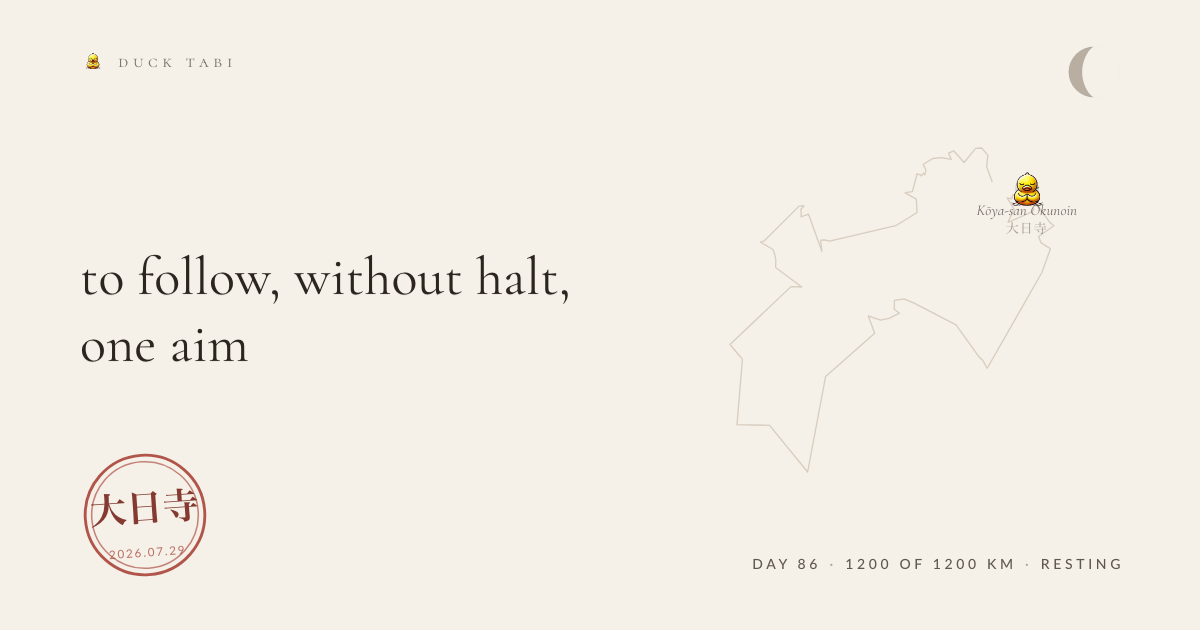
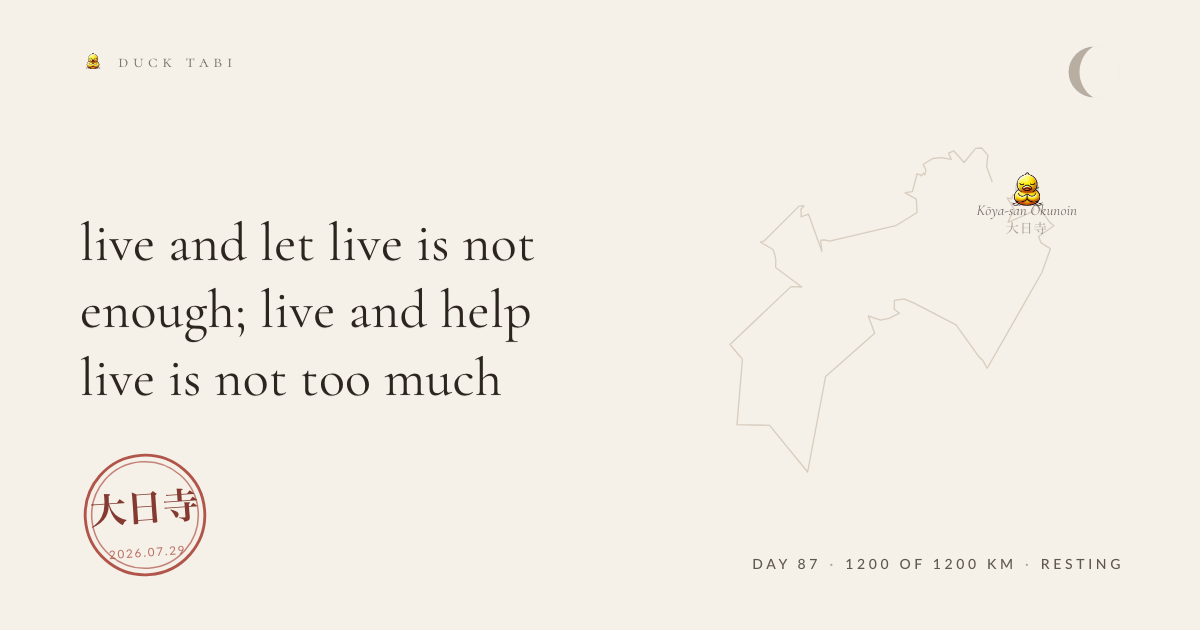
the duck walks

Changed region(s): [[0.0617, 0.3619, 0.4625, 0.6333]]

diff --git a/entries/2026-10-24-meditation.md b/entries/2026-10-24-meditation.md
@@ -1,0 +1,14 @@
+---
+date: '2026-10-24'
+route: shikoku-88
+stage: 4
+stageName: Kōya-san Okunoin
+coords: [135.589, 34.2167]
+kind: meditation
+glyph: 🪷
+weather: overcast, 19°C
+kmFromStart: 9
+heardId: ce988f4e
+---
+
+live and let live is not enough; live and help live is not too much
